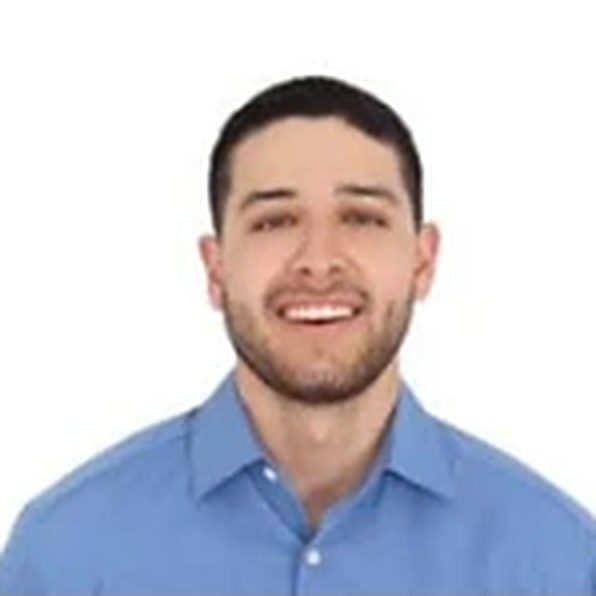
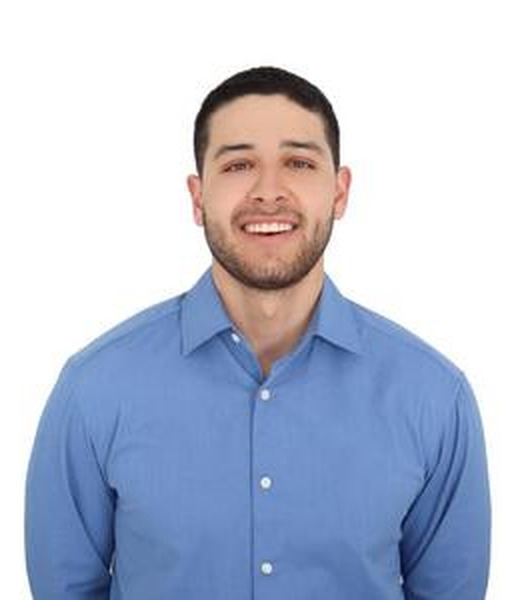
Use original portraits in October anniversary cards
Claude-Session: https://claude.ai/code/session_01GEjALNauCq7xHs5TyojdQN

diff --git a/aniversarios-octubre/tarjeta.html b/aniversarios-octubre/tarjeta.html
@@ -71,7 +71,7 @@
     box-shadow: 0 24px 60px rgba(0,0,0,.35), 0 0 0 2px rgba(149,201,225,.45);
   }
   .arch img {
-    width: 100%; height: 100%; display: block; object-fit: cover; object-position: 50% 100%;
+    width: 100%; height: 100%; display: block; object-fit: cover; object-position: 50% 30%;
     border-radius: 141px 141px 18px 18px; background: #fff;
   }
 

diff --git a/README.md b/README.md
@@ -16,7 +16,7 @@ Tarjetas individuales para enviar por correo a cada colaborador que cumple anive
 
 - `tarjetas/aniversario-<nombre>.png` — una imagen por persona (1200 × 1500 px), lista para adjuntar o insertar en el correo
 - `tarjeta.html` — plantilla (datos de cada persona al final del archivo; se abre con `?p=<nombre>`)
-- `fotos/` — retratos recortados del flyer mensual
+- `fotos/` — retratos individuales recortados al marco de la tarjeta
 - `render.js` — regenera todas las tarjetas: `NODE_PATH=$(npm root -g) node aniversarios-octubre/render.js`
 
 El mensaje cambia según los años: 1 año, de 2 a 4 años, de 5 a 7 años y 8 años o más.
